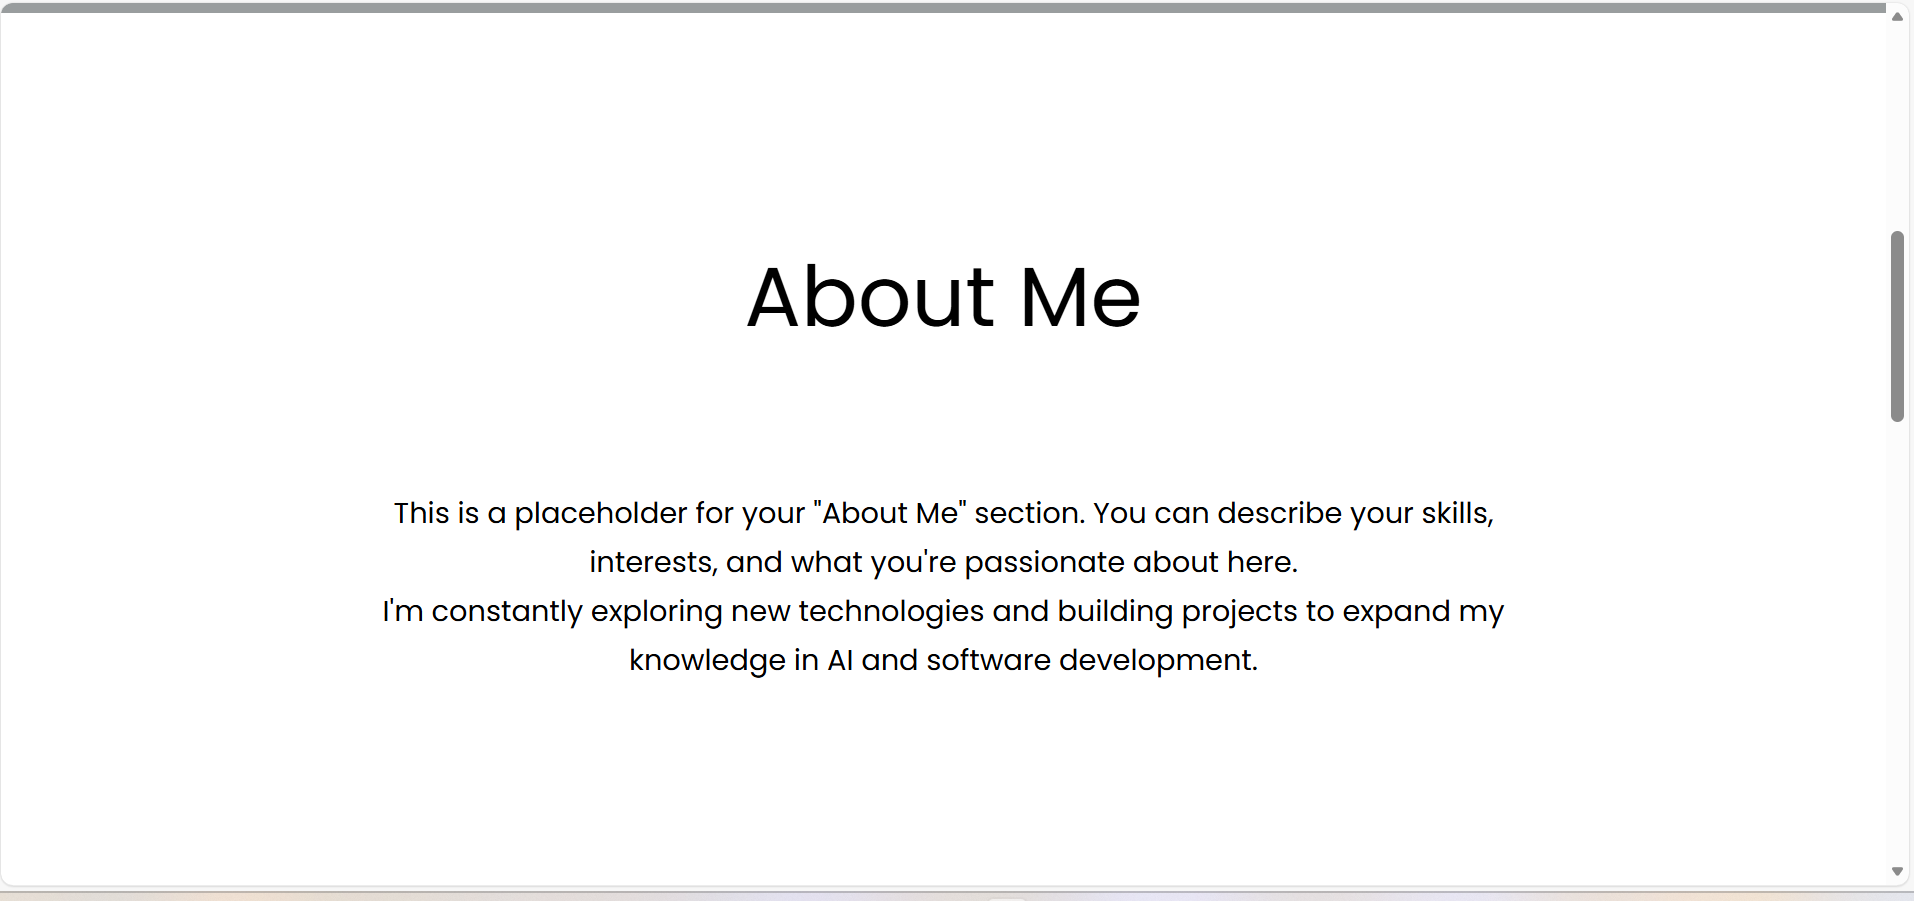
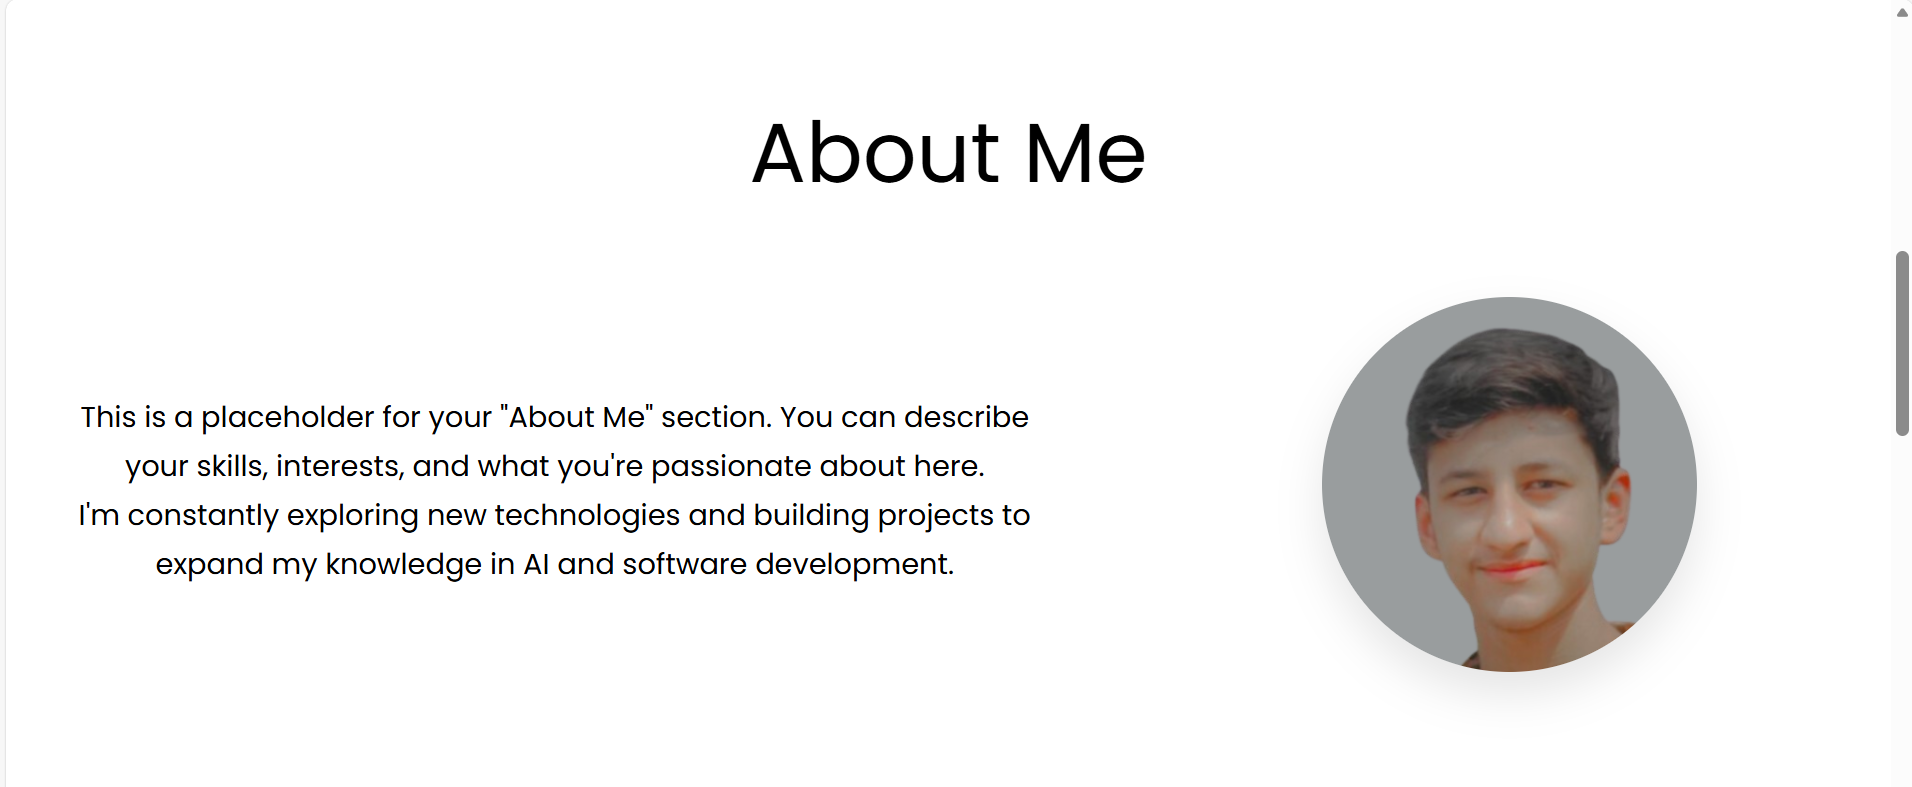
Design: Refine project card heading boldness and button size.

diff --git a/static/css/style.css b/static/css/style.css
@@ -167,47 +167,50 @@ header nav a:hover {
 #about h2, #projects h2, #contact h2 {
     font-size: 3.5rem;
     text-align: center;
-    margin-bottom: 5rem;
+    margin-bottom: 3rem;
     font-weight: 400;
 }
 
 .about-content {
     display: grid;
-    grid-template-columns: 2fr 1fr;
-    gap: 5rem;
+    grid-template-columns: 1.5fr 1fr;
+    gap: 1rem;
     align-items: center;
+}
+
+.about-text {
+    margin: 0;
+    padding: 0;
+    text-align: center;
 }
 
 .about-text p {
     font-size: 1.2rem;
-    text-align: left;
-    margin: 0;
+    text-align: center;
+    margin: 0 auto;
+    max-width: 500px;
 }
 
 .about-image {
     justify-self: center;
+    margin: 0;
+    padding: 0;
 }
 
 .about-image img {
-    width: 300px;
-    height: 300px;
+    width: 250px;
+    height: 250px;
     border-radius: 50%;
     object-fit: cover;
+    box-shadow: 0 15px 30px rgba(0,0,0,0.1);
 }
 
 
 #projects h2 {
     margin-top: 2rem;
-    margin-bottom: 2rem;
+    margin-bottom: 3rem;
 }
 
-
-#about p {
-    font-size: 1.2rem;
-    text-align: center;
-    max-width: 800px;
-    margin: 0 auto;
-}
 
 /* Projects Section */
 .project-list {
@@ -231,6 +234,7 @@ header nav a:hover {
 .project-thumbnail {
     max-width: 100%;
     overflow-x: hidden;
+    margin-top: 2rem;
 }
 
 .project-card:nth-child(even) .project-info {
@@ -243,6 +247,7 @@ header nav a:hover {
 
 .project-card h3 {
     font-size: 2.2rem;
+    font-weight: 400; /* Reduced font weight */
     margin-bottom: 1rem;
 }
 
@@ -253,7 +258,7 @@ header nav a:hover {
 
 .button {
     display: inline-block;
-    padding: 0.8rem 1.8rem;
+    padding: 0.7rem 1.5rem; /* Reduced padding */
     border: 2px solid var(--color-text-dark);
     color: var(--color-text-dark);
     text-decoration: none;
